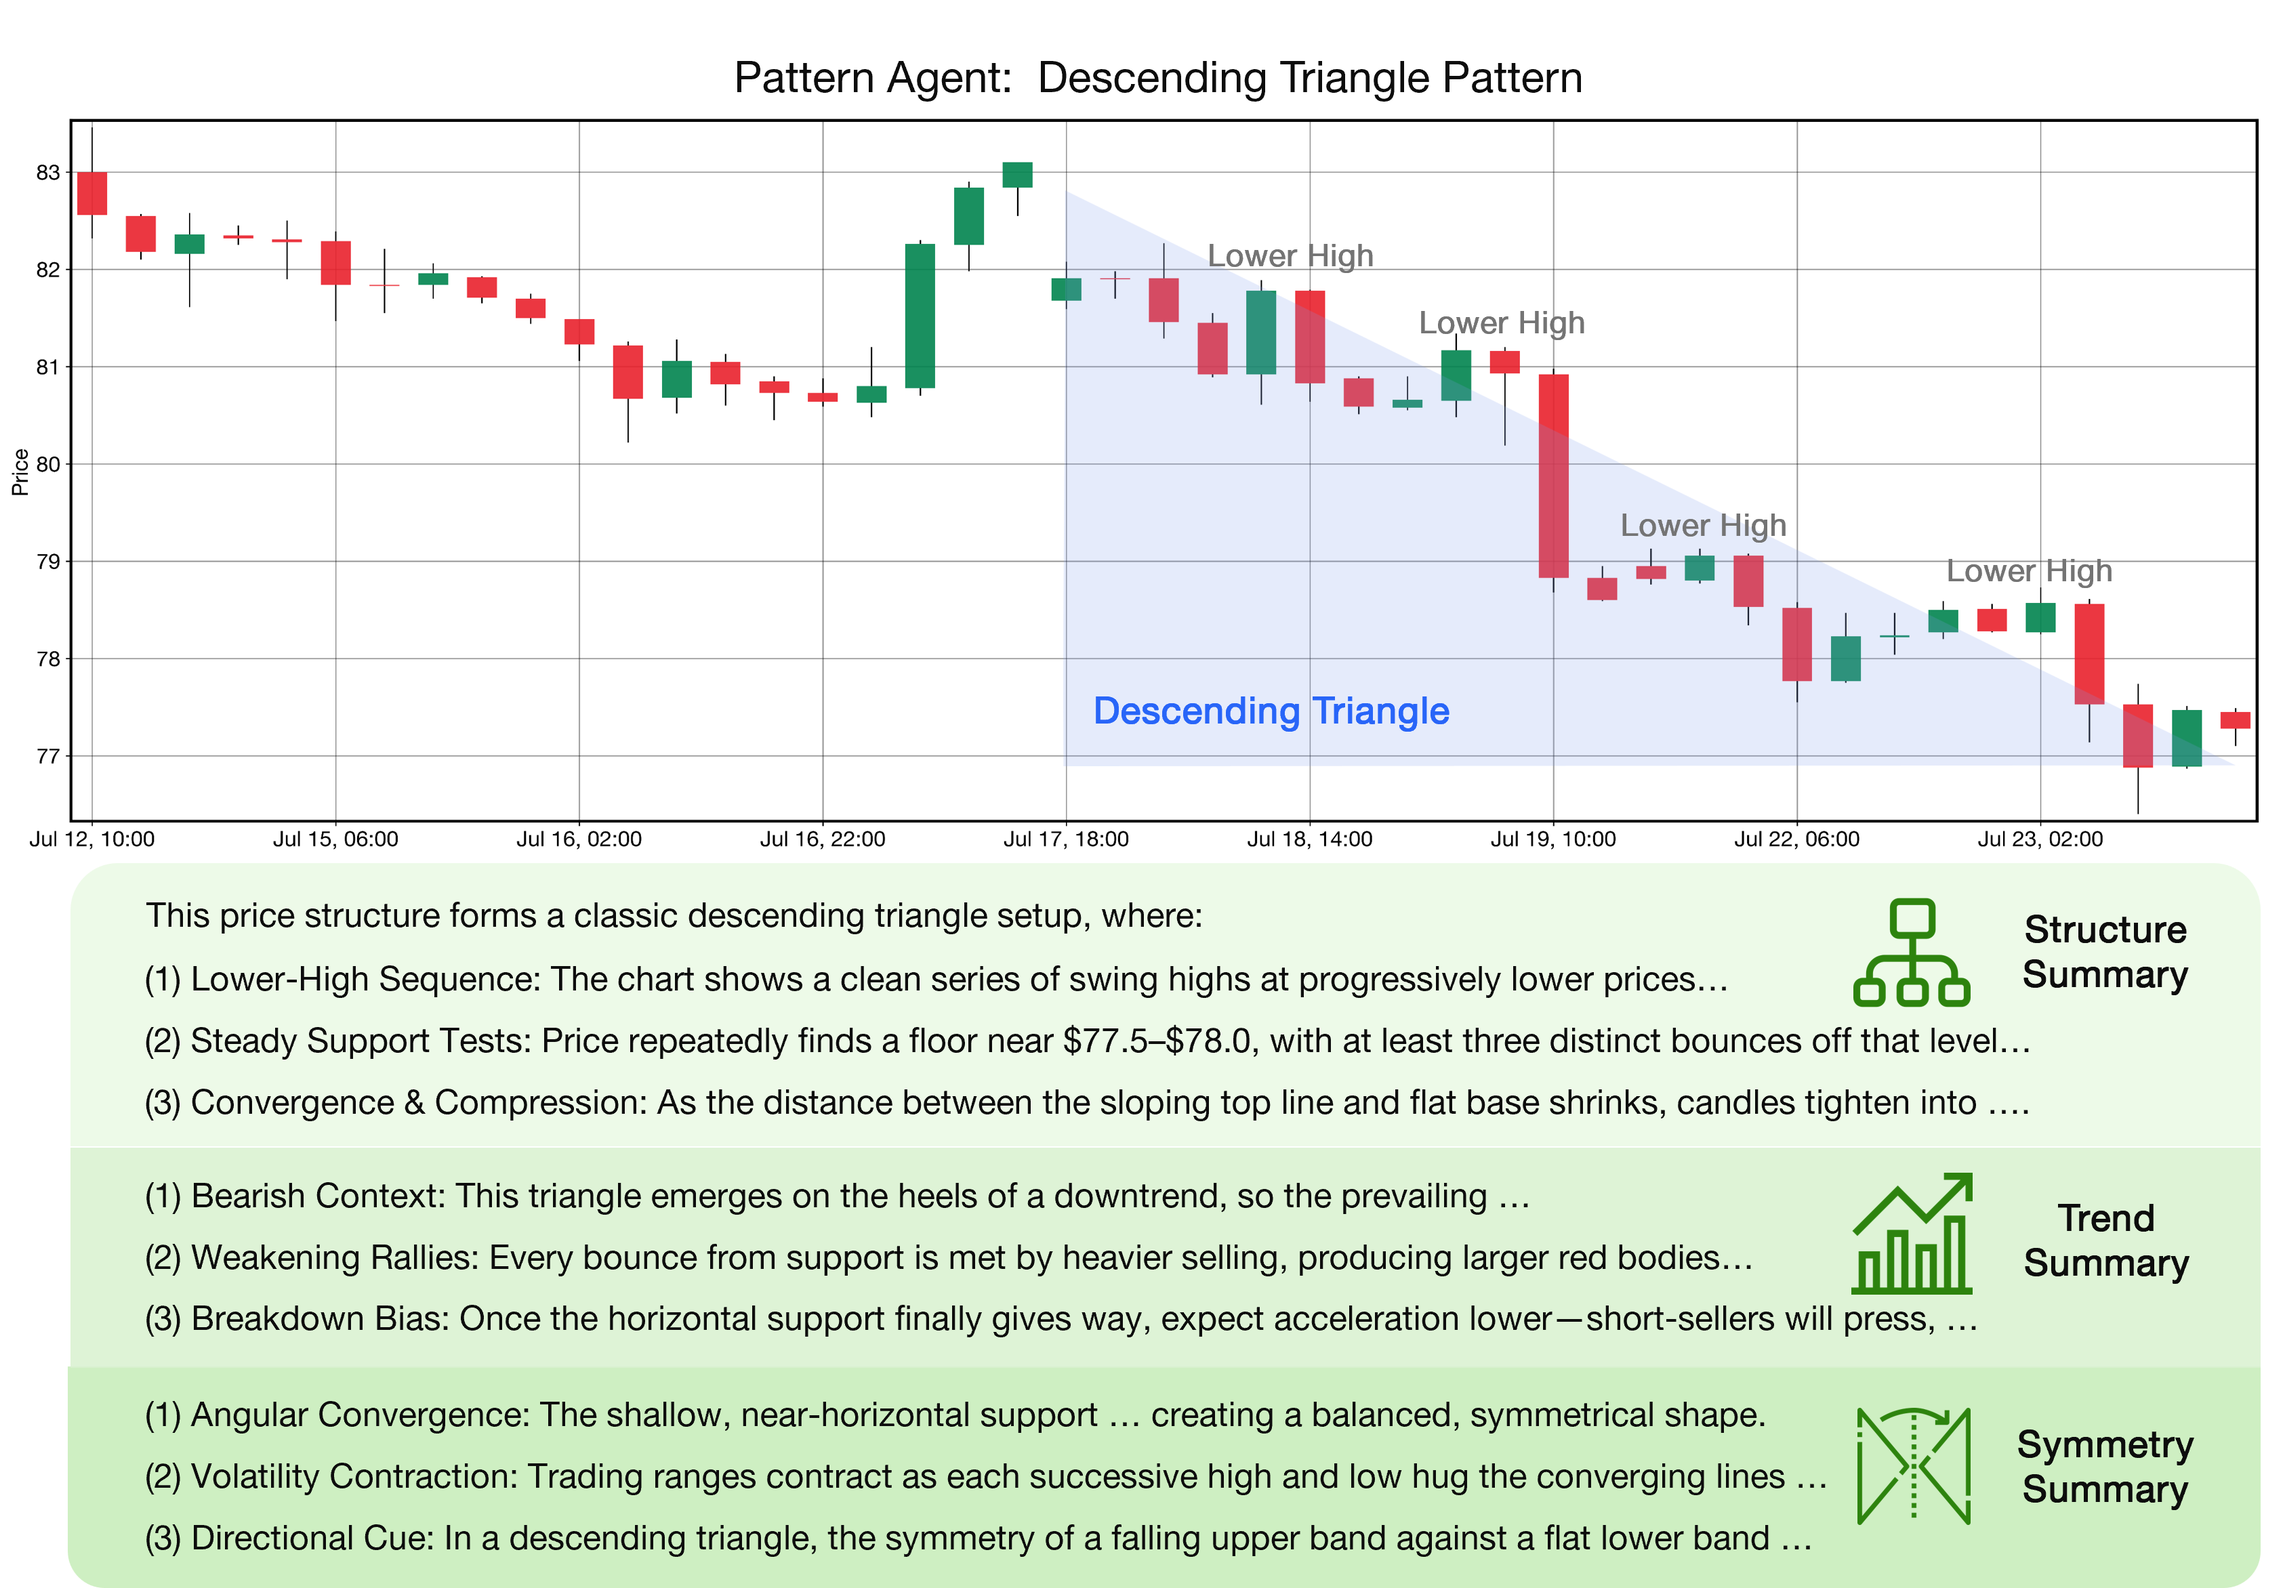
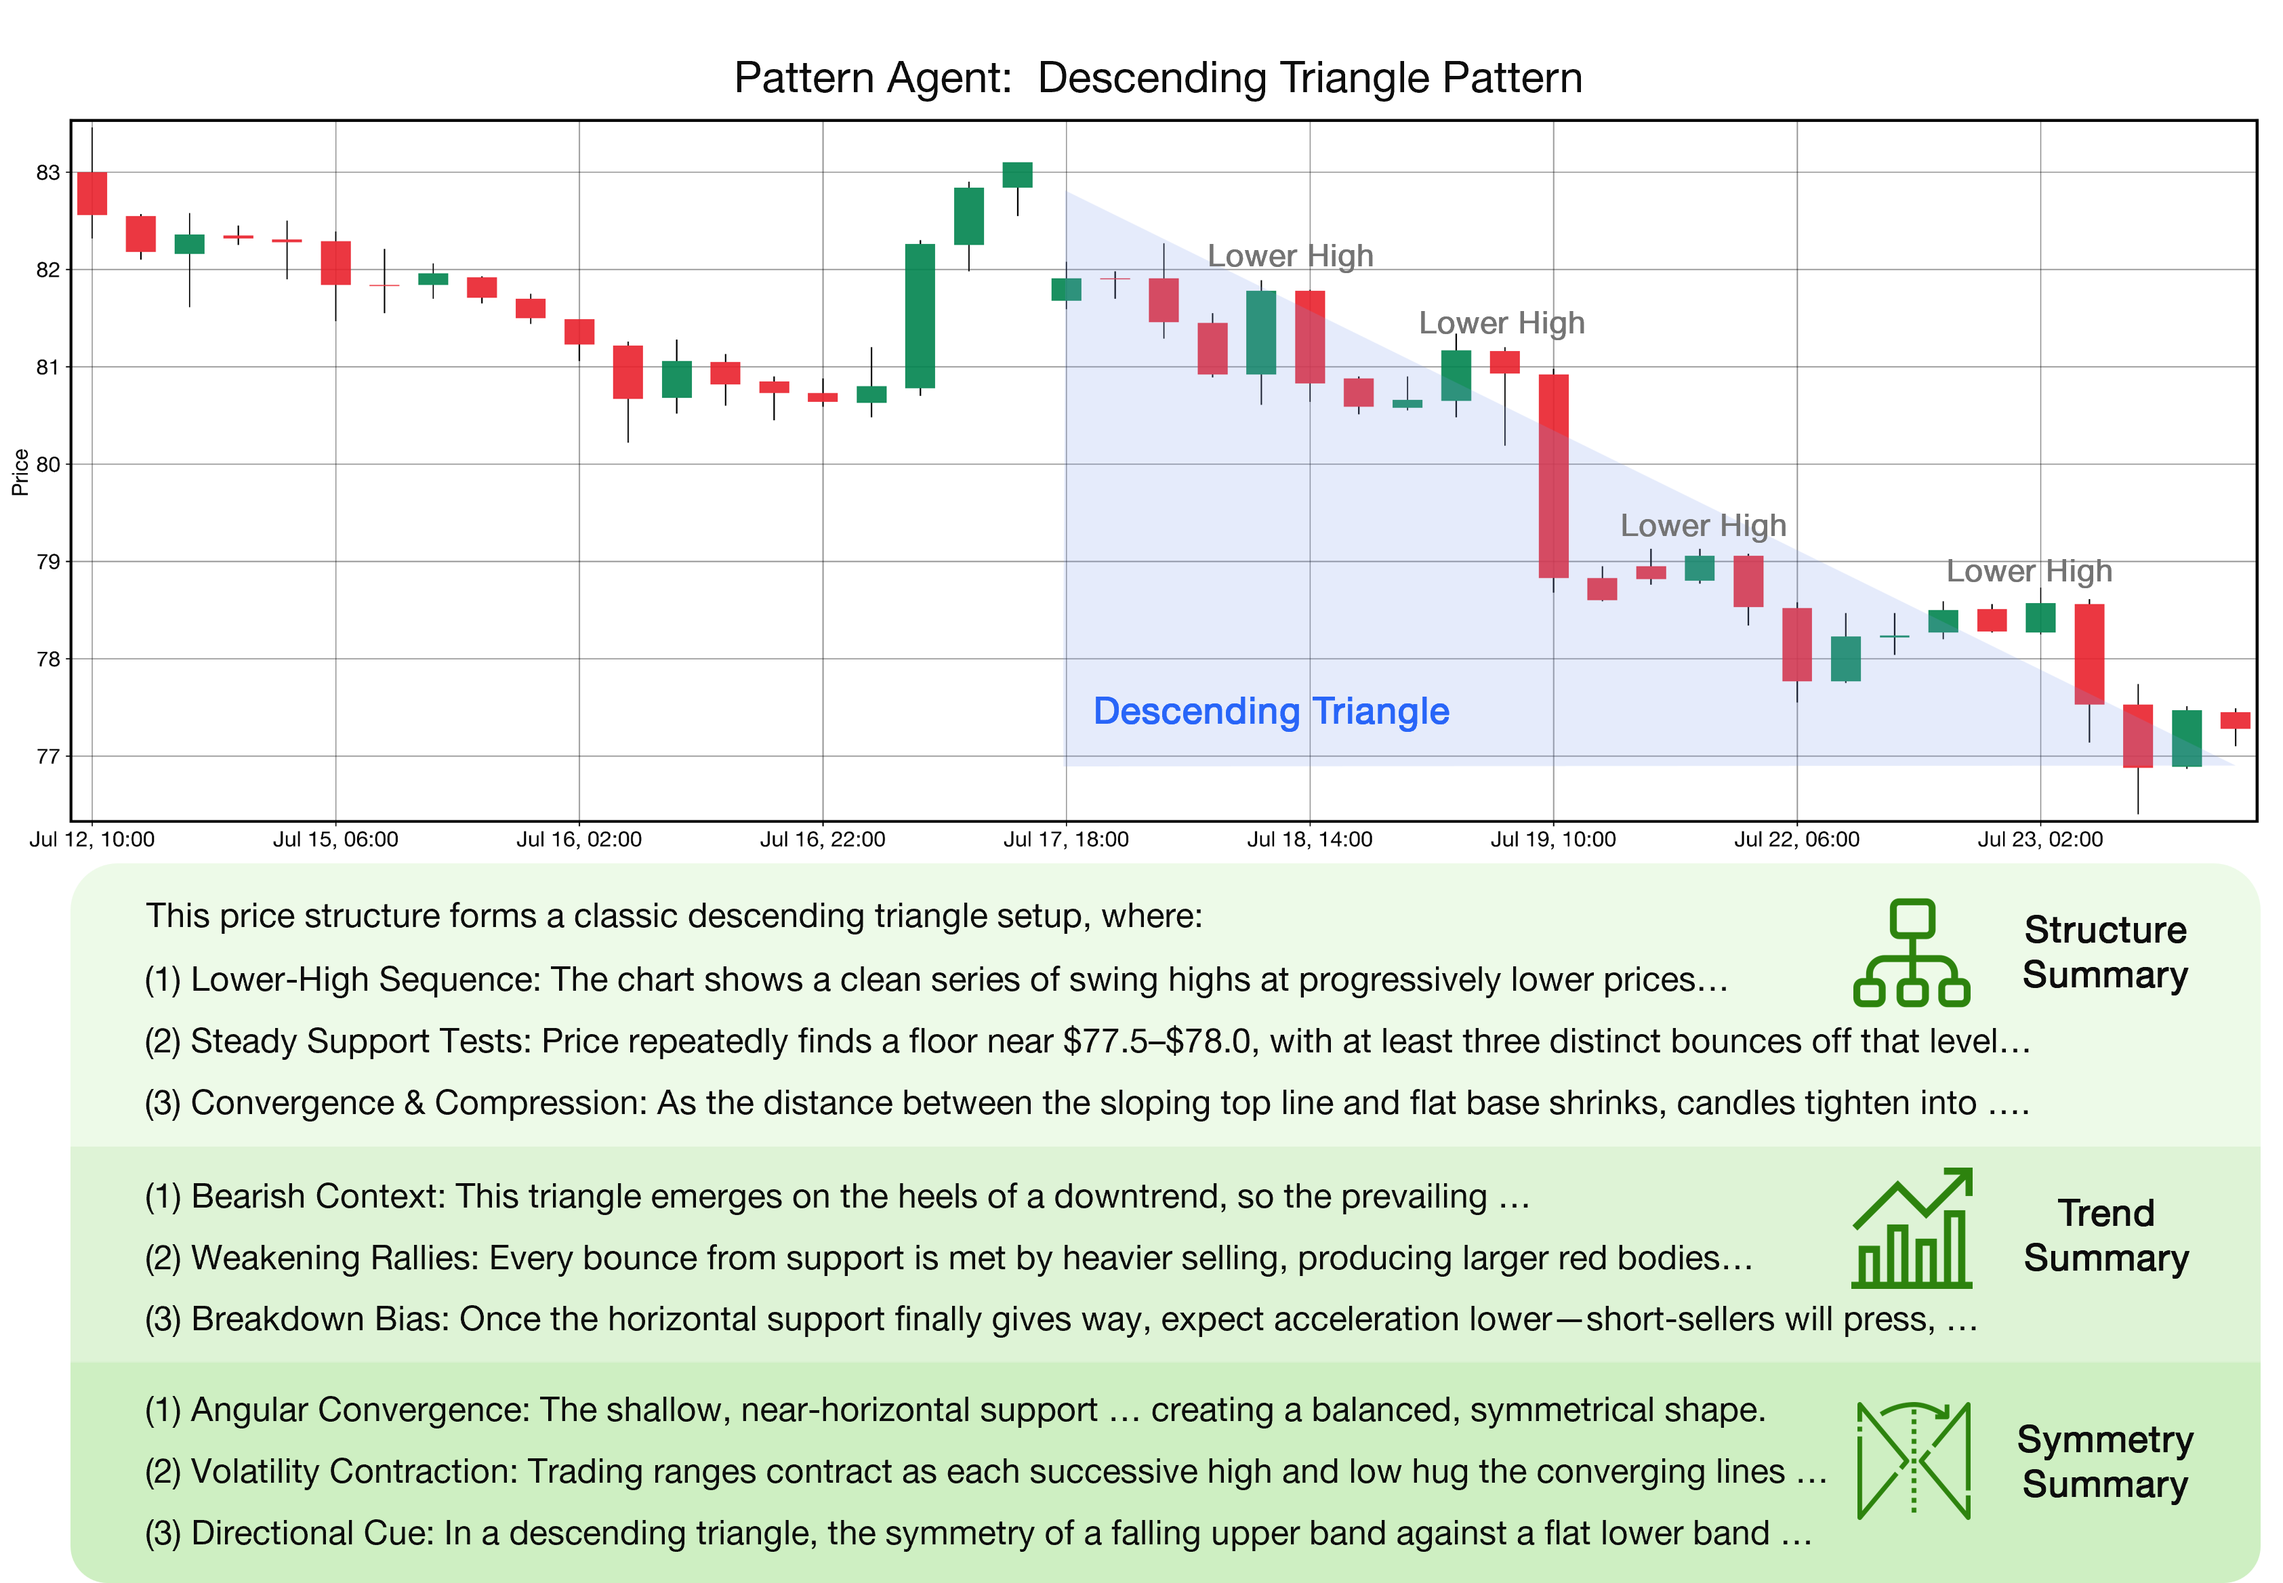
latest update on index

diff --git a/index.html b/index.html
@@ -228,6 +228,7 @@
             font-size: 1.5rem;
             color: var(--text-secondary);
             margin-bottom: 1rem;
+            margin-top: 3rem;
             display: flex;
             justify-content: center;
             gap: 2rem;
@@ -237,7 +238,7 @@
 
         .affiliations {
             font-size: 1.3rem;
-            color: var(--text-tertiary);
+            color: var(--text-secondary);
             line-height: 1.8;
             transition: color 0.3s ease;
         }
@@ -713,7 +714,7 @@
                 <span style="display: block; font-size: 3.2rem; font-weight: 900; color: var(--text-primary); line-height: 1.0; margin-top: 0.5rem;">Price-Driven Multi-Agent LLMs for High-Frequency Trading</span>
             </h1>
             <div class="authors">
-                <span><a href="" class="author-link">Fei Xiong</a><sup>1,2 ★</sup></span>
+                <span><a href="https://machineily.github.io/" class="author-link">Fei Xiong</a><sup>1,2 ★</sup></span>
                 <span><a href="https://wyattz23.github.io" class="author-link">Xiang Zhang</a><sup>3 ★</sup></span>
                 <span><a href="https://intersun.github.io/" class="author-link">Siqi Sun</a><sup>4</sup></span>
                 <span><a href="https://chenyuyou.me/" class="author-link">Chenyu You</a><sup>1</sup></span>
